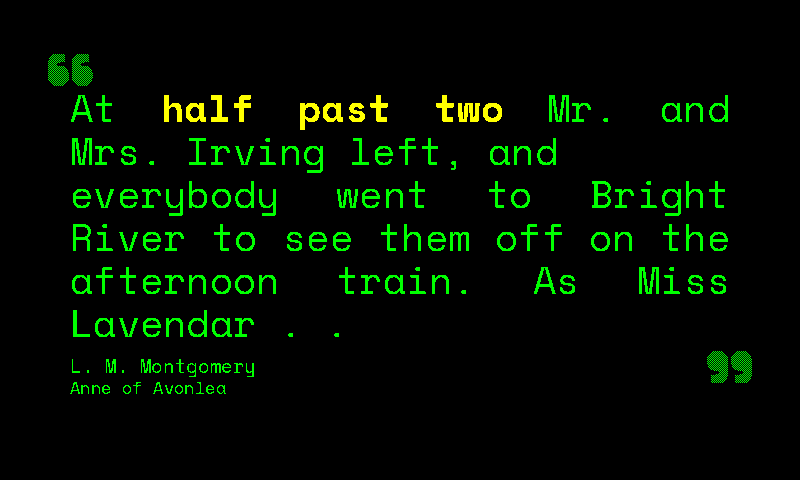
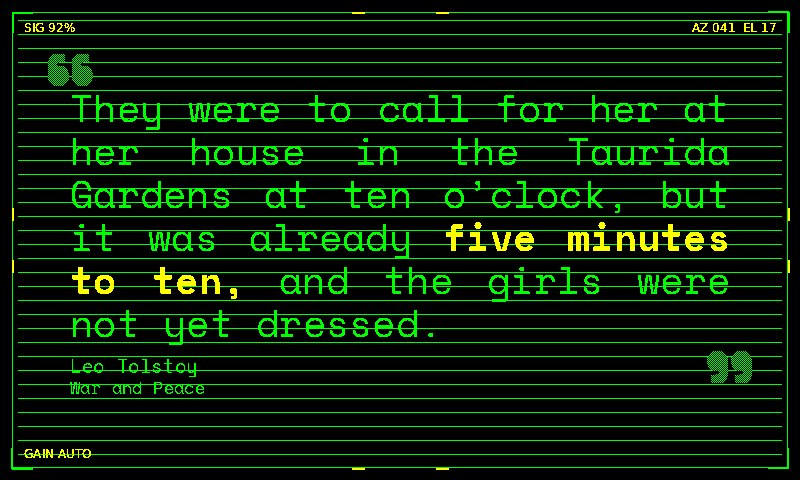
Add HUD-style nightvision border

diff --git a/render_quote.py b/render_quote.py
@@ -1150,45 +1150,52 @@ def draw_newsprint_border(image: Image.Image, colors: dict) -> None:
 
 
 def draw_nightvision_border(image: Image.Image, colors: dict) -> None:
-    """Paint HUD-style corner brackets around the canvas margin.
-
-    Four L-shaped brackets — two perpendicular green arms meeting at
-    each canvas corner, with no continuous outer frame. The bracket-
-    only composition is the iconic camera-viewfinder / weapons-HUD /
-    mission-monitor border motif; the absent full-rectangle frame is
-    the distinctive feature (full-frame HUDs are unusual), which sets
-    nightvision's border visually apart from the bauhaus / blueprint /
-    illuminated / newsprint patterns.
-
-    Drawn in the body green so brackets stay legible against the
-    theme's black page background without competing with the yellow
-    accent the matched time phrase already owns.
-    """
+    """Paint a HUD-like nightvision frame with scanlines and reticle ticks."""
     draw = ImageDraw.Draw(image)
     width, height = image.size
-    bracket = colors["text"]  # green
+    body = colors["text"]
+    accent = colors["accent"]
+    subtle = colors.get("subtle", body)
 
-    margin = 12       # canvas-edge inset of the corner point
-    arm = 26          # length of each bracket arm
-    thickness = 2     # weight of the bracket strokes
-    right_x = width - 1 - margin
-    bottom_y = height - 1 - margin
+    inset = 12
+    draw.rectangle((inset, inset, width - 1 - inset, height - 1 - inset), outline=body, width=1)
 
-    # Each corner: one horizontal arm and one vertical arm, rendered
-    # as filled rectangles so the 2px thickness is exact regardless
-    # of Pillow's line-width rounding.
-    # Top-left
-    draw.rectangle((margin, margin, margin + arm, margin + thickness - 1), fill=bracket)
-    draw.rectangle((margin, margin, margin + thickness - 1, margin + arm), fill=bracket)
-    # Top-right
-    draw.rectangle((right_x - arm, margin, right_x, margin + thickness - 1), fill=bracket)
-    draw.rectangle((right_x - thickness + 1, margin, right_x, margin + arm), fill=bracket)
-    # Bottom-left
-    draw.rectangle((margin, bottom_y - thickness + 1, margin + arm, bottom_y), fill=bracket)
-    draw.rectangle((margin, bottom_y - arm, margin + thickness - 1, bottom_y), fill=bracket)
-    # Bottom-right
-    draw.rectangle((right_x - arm, bottom_y - thickness + 1, right_x, bottom_y), fill=bracket)
-    draw.rectangle((right_x - thickness + 1, bottom_y - arm, right_x, bottom_y), fill=bracket)
+    # Faint scanlines.
+    for y in range(inset + 8, height - inset, 14):
+        draw.line((inset + 6, y, width - 1 - inset - 6, y), fill=subtle, width=1)
+
+    # Corner reticle brackets.
+    arm = 20
+    for x0, x1, y0, y1 in [
+        (inset, inset + arm, inset, inset + arm),
+        (width - inset, width - inset - arm, inset, inset + arm),
+        (inset, inset + arm, height - inset, height - inset - arm),
+        (width - inset, width - inset - arm, height - inset, height - inset - arm),
+    ]:
+        draw.line((x0, y0, x1, y0), fill=body, width=2)
+        draw.line((x0, y0, x0, y1), fill=body, width=2)
+
+    # Mid-edge targeting ticks.
+    tick = 12
+    cx = width // 2
+    cy = height // 2
+    draw.line((cx - 48, inset, cx - 48 + tick, inset), fill=accent, width=2)
+    draw.line((cx + 48 - tick, inset, cx + 48, inset), fill=accent, width=2)
+    draw.line((cx - 48, height - inset, cx - 48 + tick, height - inset), fill=accent, width=2)
+    draw.line((cx + 48 - tick, height - inset, cx + 48, height - inset), fill=accent, width=2)
+    draw.line((inset, cy - 32, inset, cy - 32 + tick), fill=accent, width=2)
+    draw.line((inset, cy + 32 - tick, inset, cy + 32), fill=accent, width=2)
+    draw.line((width - inset, cy - 32, width - inset, cy - 32 + tick), fill=accent, width=2)
+    draw.line((width - inset, cy + 32 - tick, width - inset, cy + 32), fill=accent, width=2)
+
+    # Tiny corner telemetry.
+    meta_font = load_font(META_FONT_CANDIDATES, size=12)
+    draw_text(draw, (24, 20), 'SIG 92%', font=meta_font, fill=accent)
+    draw_text(draw, (24, height - 34), 'GAIN AUTO', font=meta_font, fill=accent)
+    tr = 'AZ 041  EL 17'
+    bbox = draw.textbbox((0, 0), tr, font=meta_font)
+    draw_text(draw, (width - 24 - (bbox[2] - bbox[0]), 20), tr, font=meta_font, fill=accent)
+
 
 
 _COMIC_STRIPE_PALETTE = (
